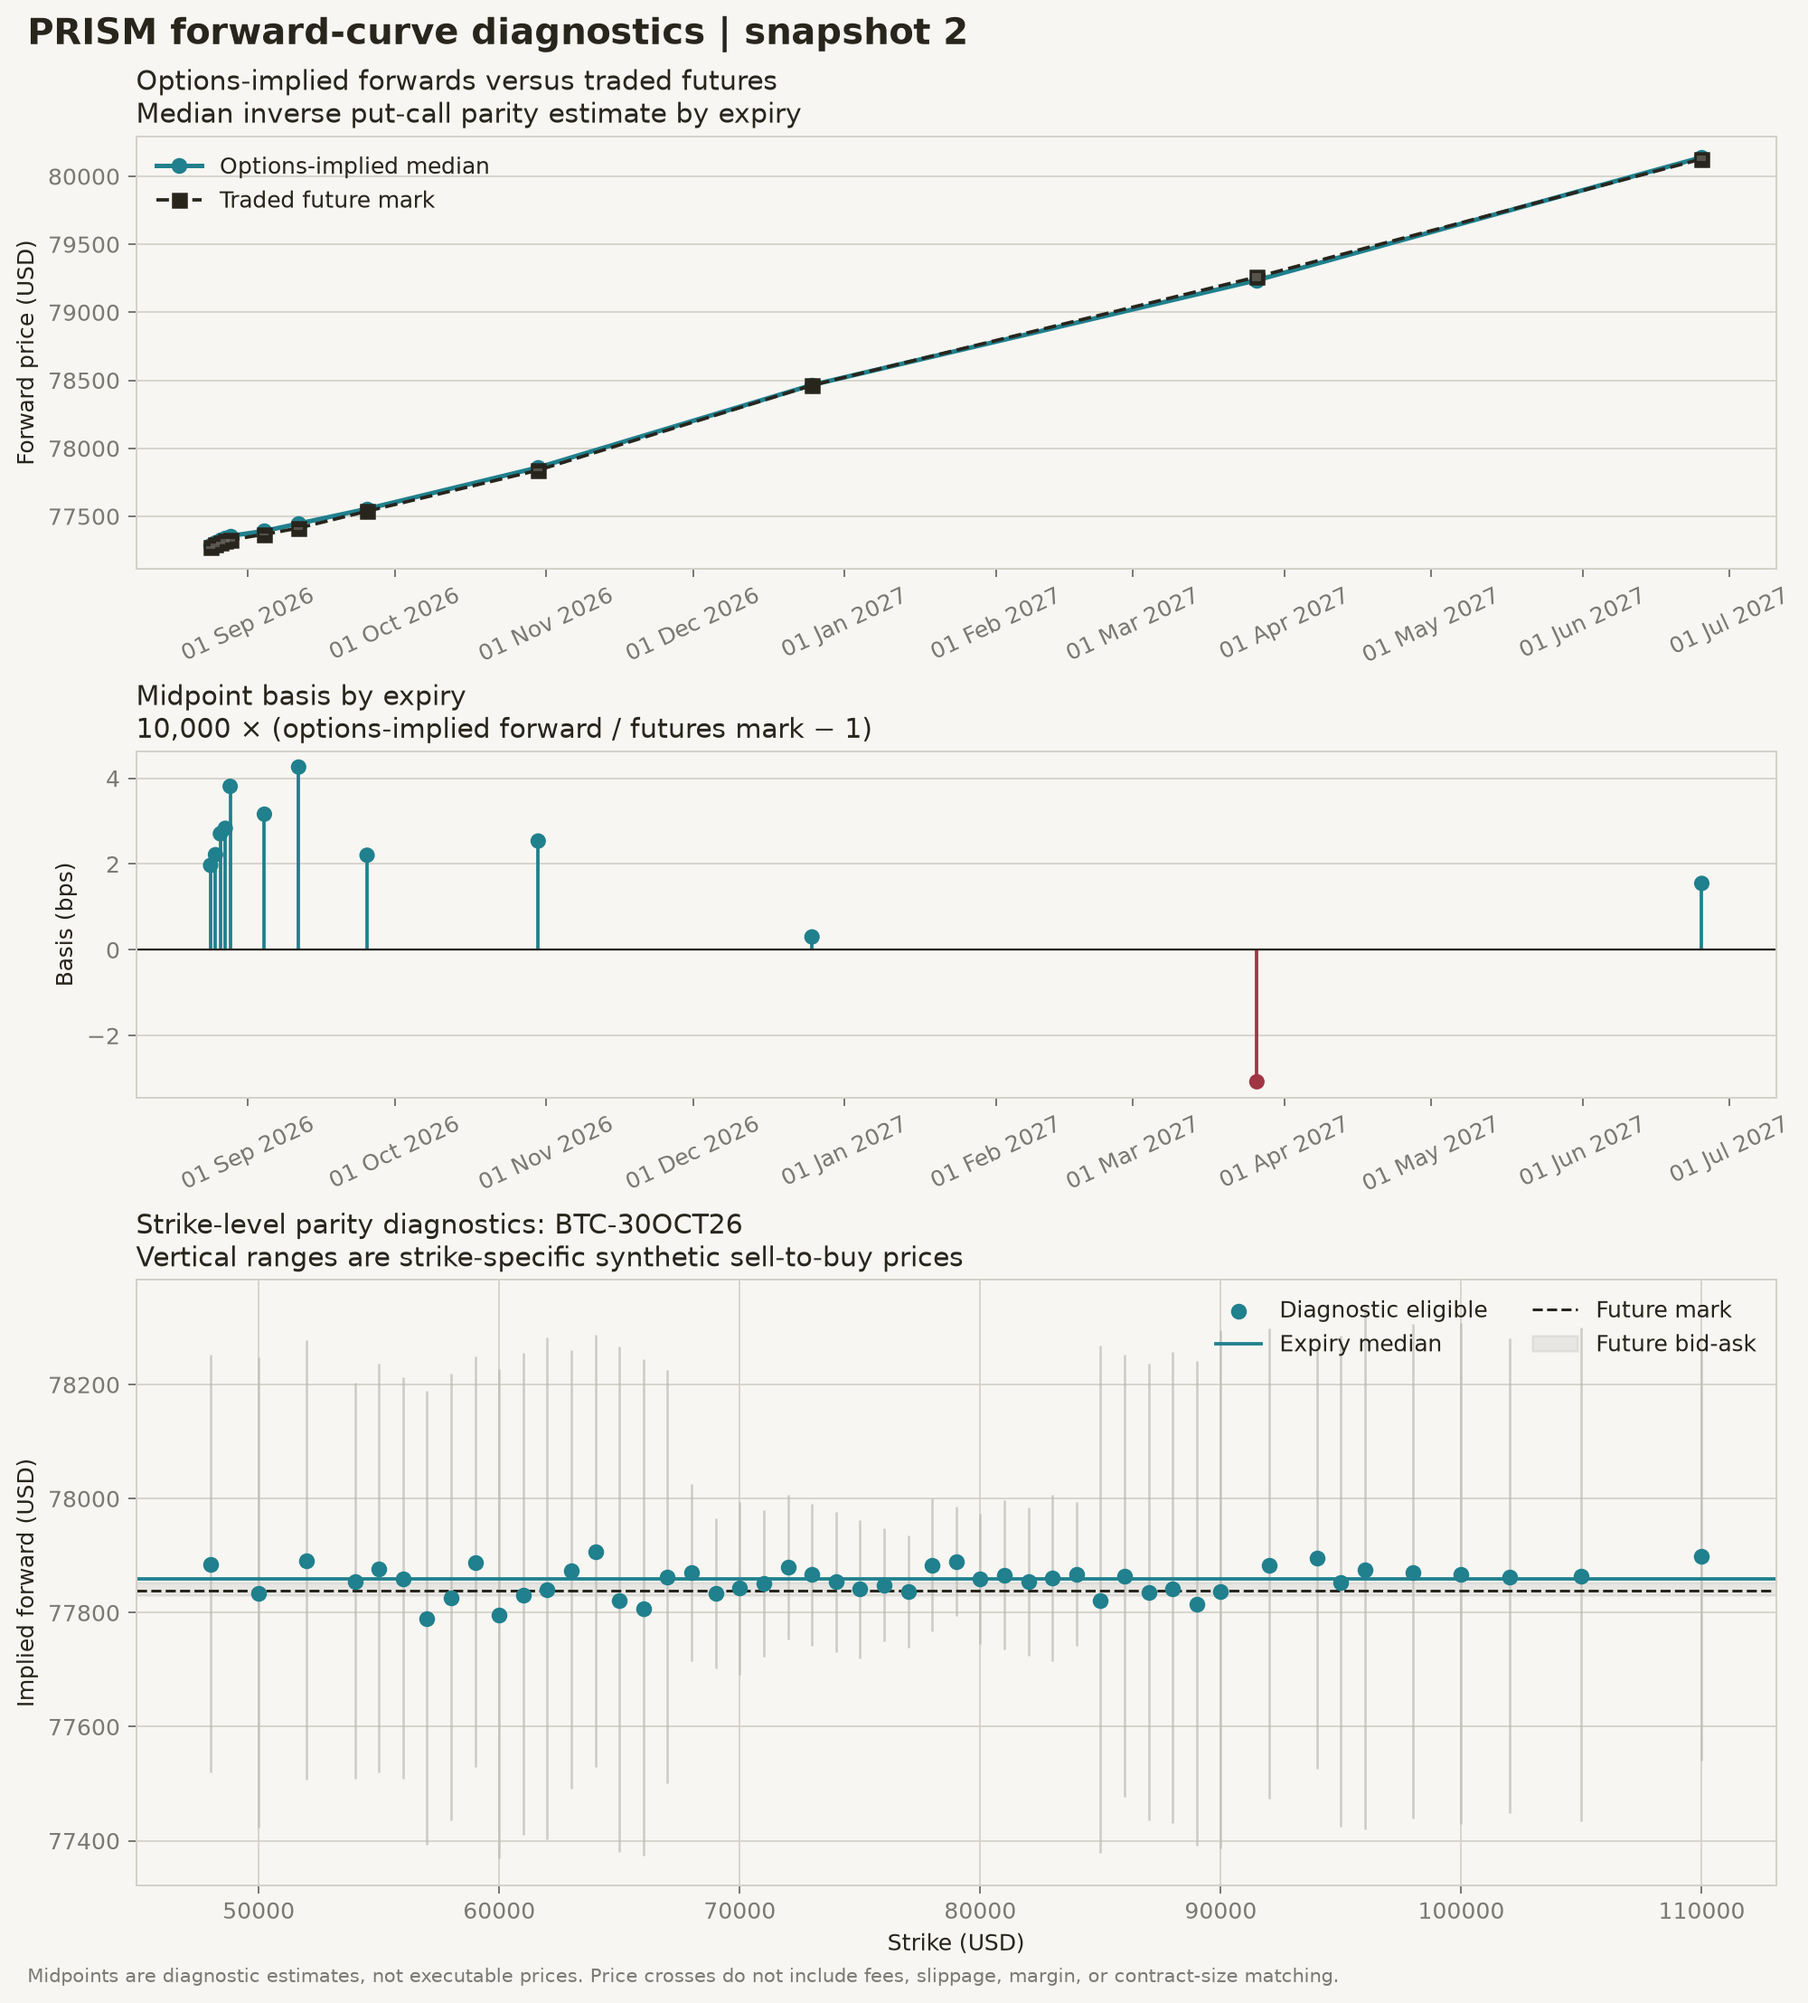
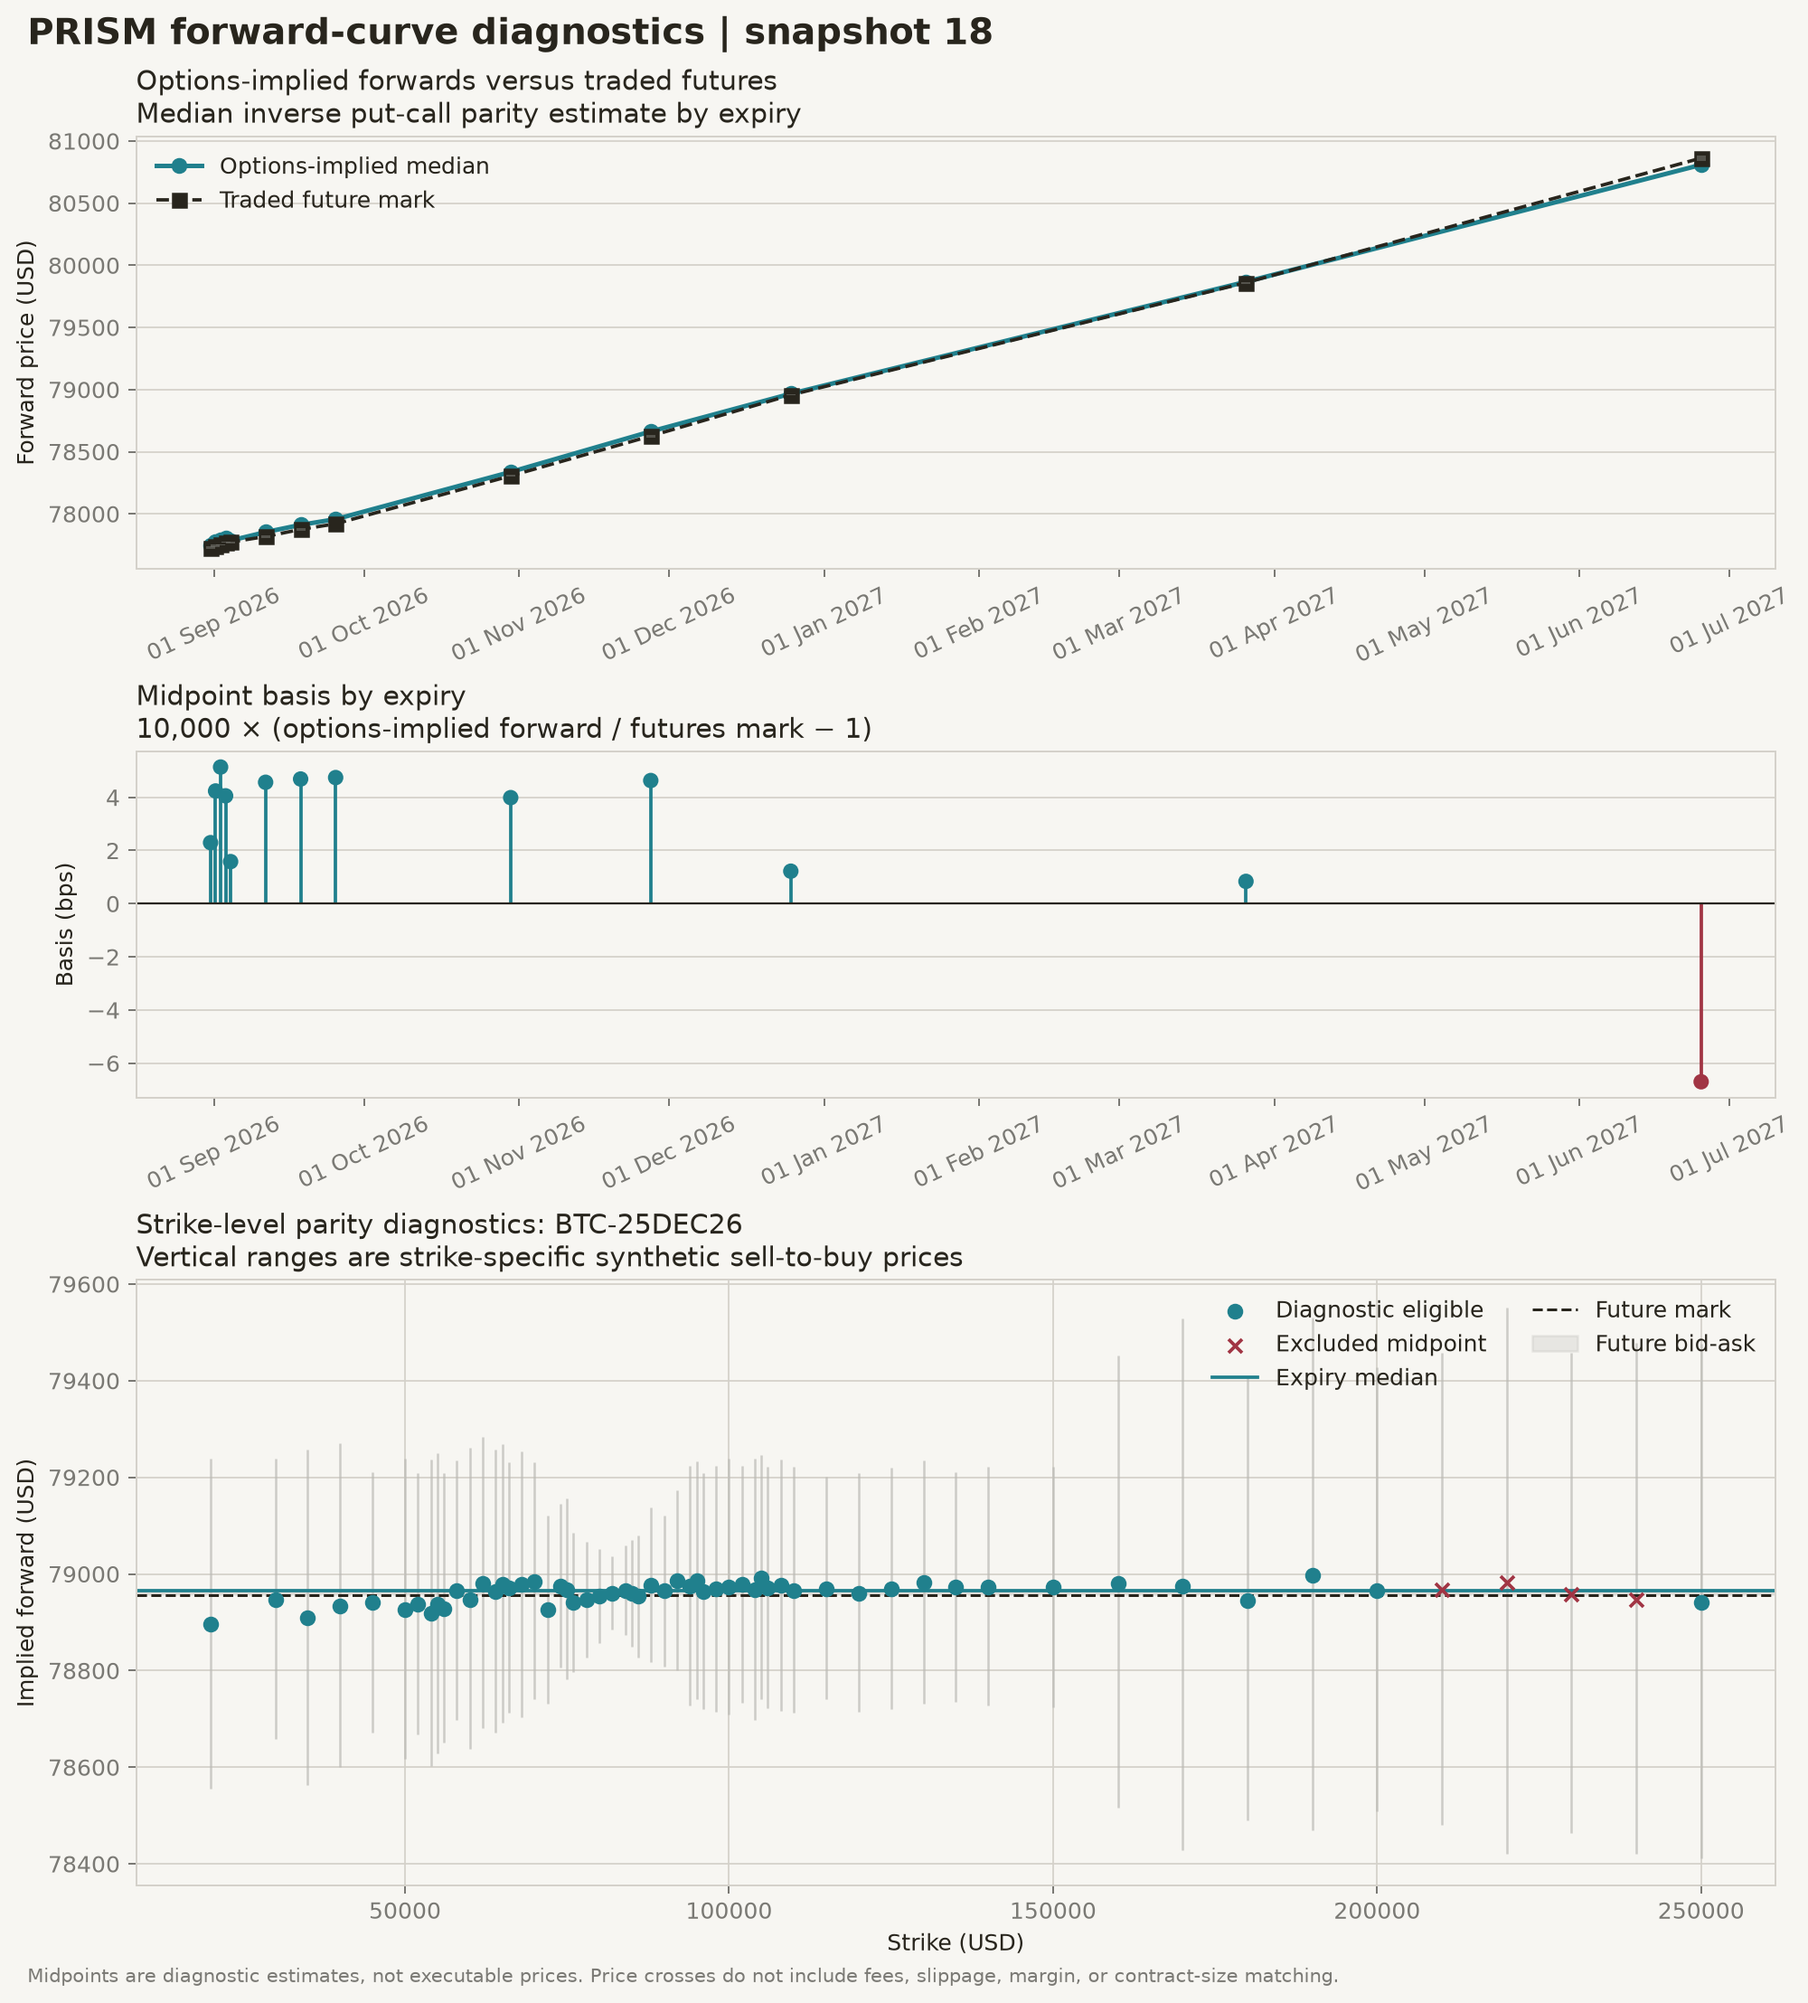
bad quote in figs

diff --git a/benchmarks/delta_strike_plot.py b/benchmarks/delta_strike_plot.py
@@ -24,6 +24,7 @@ from deribit.pricing import (
     Black76Model,
     from_forward_greeks,
 )
+from deribit.hygiene import Use, evaluate_leg
 from deribit.store import SnapshotStore
 from deribit.ws_client import DeribitWSClient
 
@@ -38,6 +39,8 @@ class DeltaRow:
     binomial_delta: float
     bachelier_delta: float
     net_transaction_delta: float
+    diagnostic: bool
+    issue_codes: tuple[str,...]
 
 
 async def fetch_snapshot(
@@ -70,6 +73,12 @@ def build_delta_rows(
         if mid_usd is None:
             dropped.append((quote.instrument_name, "no two-sided midpoint"))
             continue
+        
+        quote_issues = evaluate_leg(quote, quote.option_type)
+        diagnostic = not any(
+            Use.DIAGNOSTIC_MID in issue.blocks for issue in quote_issues
+        )
+        issue_codes = tuple(issue.code.value for issue in quote_issues)
 
         try:
             key = (
@@ -83,73 +92,13 @@ def build_delta_rows(
                 continue
 
             rate = math.log(forward / quote.index_price) / quote.tau
-            lognormal_vol = black76.implied_vol(
-                mid_usd,
-                # quote.forward,
-                forward,
-                quote.strike,
-                quote.tau,
-                # quote.rate,
-                rate,
-                quote.option_type,
-            )
-            normal_vol = bachelier.implied_vol(
-                mid_usd,
-                # quote.forward,
-                forward,
-                quote.strike,
-                quote.tau,
-                # quote.rate,
-                rate,
-                quote.option_type,
-            )
-            black76_greeks = black76.greeks(
-                # quote.forward,
-                forward,
-                quote.strike,
-                quote.tau,
-                lognormal_vol,
-                # quote.rate,
-                rate,
-                quote.option_type,
-            )
-            binomial_greeks = binomial.greeks(
-                # quote.forward,
-                forward,
-                quote.strike,
-                quote.tau,
-                lognormal_vol,
-                # quote.rate,
-                rate,
-                quote.option_type,
-            )
-            bachelier_greeks = bachelier.greeks(
-                # quote.forward,
-                forward,
-                quote.strike,
-                quote.tau,
-                normal_vol,
-                # quote.rate,
-                rate,
-                quote.option_type,
-            )
-            cash_price = black76.price(
-                # quote.forward,
-                forward,
-                quote.strike,
-                quote.tau,
-                lognormal_vol,
-                # quote.rate,
-                rate,
-                quote.option_type,
-            )
-            inverse = from_forward_greeks(
-                cash_price,
-                black76_greeks,
-                quote.index_price,
-                # quote.forward,
-                forward,
-            )
+            lognormal_vol = black76.implied_vol(mid_usd, forward, quote.strike, quote.tau, rate, quote.option_type)
+            normal_vol = bachelier.implied_vol(mid_usd, forward, quote.strike, quote.tau, rate, quote.option_type)
+            black76_greeks = black76.greeks(forward, quote.strike, quote.tau, lognormal_vol, rate, quote.option_type)
+            binomial_greeks = binomial.greeks(forward, quote.strike, quote.tau, lognormal_vol, rate, quote.option_type)
+            bachelier_greeks = bachelier.greeks(forward, quote.strike, quote.tau, normal_vol, rate, quote.option_type)
+            cash_price = black76.price(forward, quote.strike, quote.tau, lognormal_vol, rate, quote.option_type)
+            inverse = from_forward_greeks(cash_price, black76_greeks, quote.index_price, forward)
         except ValueError as error:
             dropped.append((quote.instrument_name, str(error)))
             continue
@@ -164,6 +113,8 @@ def build_delta_rows(
                 binomial_delta=binomial_greeks.delta,
                 bachelier_delta=bachelier_greeks.delta,
                 net_transaction_delta=inverse.net_transaction_delta,
+                diagnostic=diagnostic,
+                issue_codes=issue_codes,
             )
         )
 
@@ -176,16 +127,24 @@ def plot_delta_rows(
     snapshot_id: int | str,
     dropped_count: int,
     steps: int,
+    model_forward: float,
 ) -> None:
     if not rows:
         raise ValueError("no valid option rows remain after IV inversion")
 
-    strikes = np.array([row.quote.strike for row in rows])
-    traditional = np.array([row.traditional_delta for row in rows])
-    black76 = np.array([row.black76_delta for row in rows])
-    binomial = np.array([row.binomial_delta for row in rows])
-    bachelier = np.array([row.bachelier_delta for row in rows])
-    ntd = np.array([row.net_transaction_delta for row in rows])
+    eligible_rows = [r for r in rows if r.diagnostic]
+    excluded_rows = [r for r in rows if not r.diagnostic]
+
+    el_strikes = np.array([r.quote.strike for r in eligible_rows])
+    el_traditional = np.array([r.traditional_delta for r in eligible_rows])
+    el_black76 = np.array([r.black76_delta for r in eligible_rows])
+    el_binomial = np.array([r.binomial_delta for r in eligible_rows])
+    el_bachelier = np.array([r.bachelier_delta for r in eligible_rows])
+    el_ntd = np.array([r.net_transaction_delta for r in eligible_rows])
+
+    ex_strikes = np.array([r.quote.strike for r in excluded_rows])
+    ex_traditional = np.array([r.traditional_delta for r in excluded_rows])
+    ex_ntd = np.array([r.net_transaction_delta for r in excluded_rows])
 
     mark_differences = [
         abs(row.lognormal_vol - row.quote.deribit_mark_iv)
@@ -221,8 +180,8 @@ def plot_delta_rows(
         )
 
         top.plot(
-            strikes,
-            traditional,
+            el_strikes,
+            el_traditional,
             color="#20808D",
             marker="o",
             markersize=3,
@@ -230,8 +189,8 @@ def plot_delta_rows(
             label="Spot-equivalent traditional delta",
         )
         top.plot(
-            strikes,
-            black76,
+            el_strikes,
+            el_black76,
             color="#A84B2F",
             marker="s",
             markersize=3,
@@ -240,20 +199,32 @@ def plot_delta_rows(
             label="Black–76 forward delta",
         )
         top.plot(
-            strikes,
-            binomial,
+            el_strikes,
+            el_binomial,
             color="#1B474D",
             lw=1.4,
             label=f"CRR forward delta ({steps} steps)",
         )
         top.plot(
-            strikes,
-            bachelier,
+            el_strikes,
+            el_bachelier,
             color="#7A39BB",
             lw=1.8,
             ls="-.",
             label="Price-matched Bachelier delta",
         )
+
+        if len(ex_strikes) > 0:
+            top.scatter(
+                ex_strikes,
+                ex_traditional,
+                color="#A13544",
+                marker="x",
+                s=40,
+                zorder=4,
+                label="Excluded leg midpoint",
+            )
+
         top.set_ylabel("Delta")
         top.set_title(
             "Traditional deltas use market-mid implied volatility\n"
@@ -263,14 +234,26 @@ def plot_delta_rows(
         top.legend(frameon=False, ncol=2, loc="best")
 
         bottom.plot(
-            strikes,
-            ntd,
+            el_strikes,
+            el_ntd,
             color="#DA7101",
             marker="o",
             markersize=3,
             lw=2.4,
             label="Inverse Net Transaction Delta",
         )
+
+        if len(ex_strikes) > 0:
+            bottom.scatter(
+                ex_strikes,
+                ex_ntd,
+                color="#A13544",
+                marker="x",
+                s=40,
+                zorder=4,
+                label="Excluded leg midpoint",
+            )
+
         bottom.axhline(0.0, color="#7A7974", lw=0.8)
         bottom.set_xlabel("Strike K (USD)")
         bottom.set_ylabel("Base-coin exposure")
@@ -283,7 +266,6 @@ def plot_delta_rows(
         bottom.legend(frameon=False, loc="best")
 
         for axis in (top, bottom):
-            # Mark Spot/Index Price
             axis.axvline(
                 first.index_price, 
                 color="#7A7974", 
@@ -291,13 +273,12 @@ def plot_delta_rows(
                 lw=1.2, 
                 label=f"Index X (${first.index_price:,.0f})"
             )
-            # Mark Forward Price
             axis.axvline(
-                first.api_forward, 
+                model_forward, 
                 color="#28251D", 
                 ls="--", 
                 lw=1.2, 
-                label=f"Forward F (${first.api_forward:,.0f})"
+                label=f"Forward F (${model_forward:,.0f})"
             )
             axis.grid(axis="y", color="#D4D1CA", lw=0.8, alpha=0.7)
             axis.grid(axis="x", visible=False)
@@ -325,9 +306,9 @@ def plot_delta_rows(
             -0.02,
             (
                 f"Expiry {expiry} | X={first.index_price:,.2f} | "
-                f"F={first.api_forward:,.2f} | kept={len(rows)} | "
-                f"dropped={dropped_count} | median |own IV − mark IV|="
-                f"{cross_check}"
+                f"F={model_forward:,.2f} | kept={len(rows)} | "
+                f"excluded={len(excluded_rows)} | dropped={dropped_count} | "
+                f"median |own IV − mark IV|={cross_check}"
             ),
             fontsize=8.5,
             color="#7A7974",
@@ -401,12 +382,14 @@ def main() -> None:
             "Selected expiry has no diagnostic-eligible options-implied forward."
         )
     rows, dropped = build_delta_rows(selected, args.steps, forward_by_expiry,)
+    model_forward = forward_by_expiry[selected_key]
     plot_delta_rows(
         rows,
         Path(args.output),
         snapshot_id,
         len(dropped),
         args.steps,
+        model_forward,
     )
 
     print(
